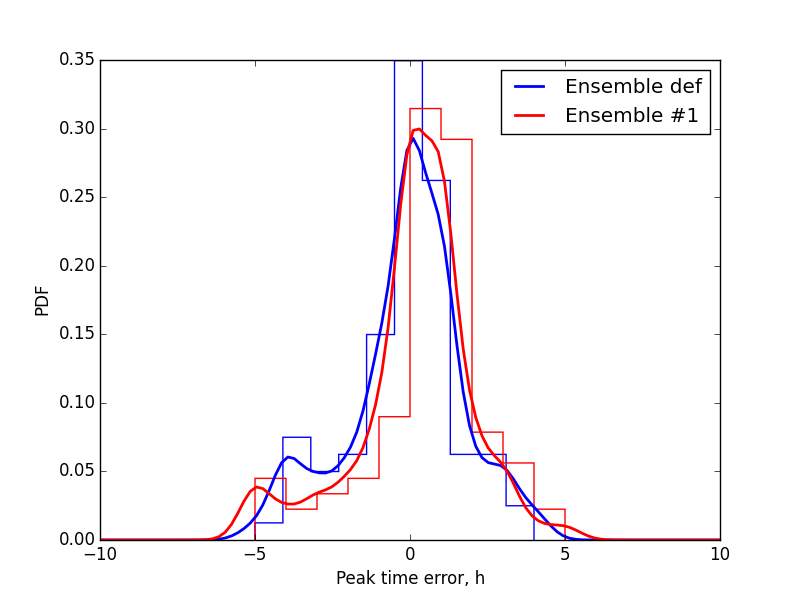
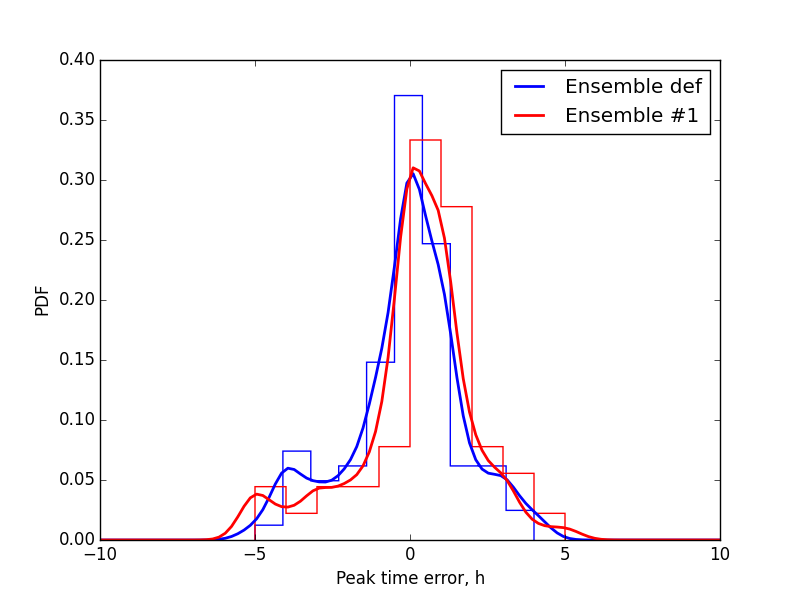
Comparing peak level after-processing. W/a after-preocessing is better..

diff --git a/peaks-compare.py b/peaks-compare.py
@@ -86,7 +86,7 @@ def forecast_error(fc):
     return mae
 
 
-pLevel = 80
+pLevel = 60
 level_scale_mode = 1 # 0 - mult, 1 - add-peak, 2 - add-all
 level_scale_flag = False
 level_scale_flag_string = ''
@@ -250,9 +250,9 @@ fc_1 = np.full((N, T + 1), c[3])
 for src_i in range(3):
     fc_1 += src_set[src_i] * c[src_i]
 # peak tuning
-for i in range(len(p_flt)):
-    print("Forcing FC", p_flt[i, 0])
-    fc_1[p_flt[i, 0]] = scale_peak_vertically(fc_1[p_flt[i, 0]], res_params_array[i])
+# for i in range(len(p_flt)):
+#     print("Forcing FC", p_flt[i, 0])
+#     fc_1[p_flt[i, 0]] = scale_peak_vertically(fc_1[p_flt[i, 0]], res_params_array[i])
 indexRange = np.arange(N)
 
 plt.figure(1, figsize=(12, 5))
